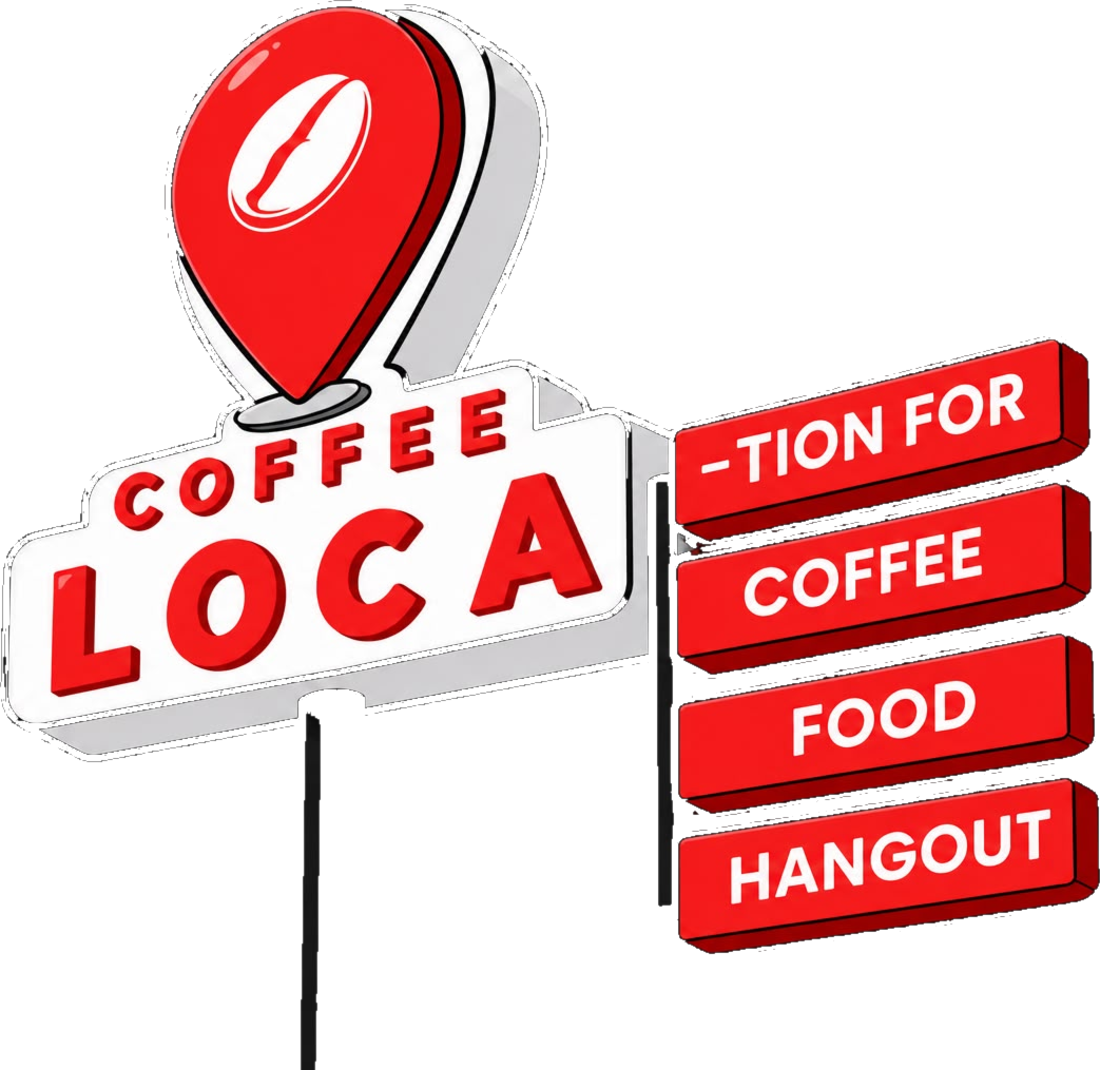
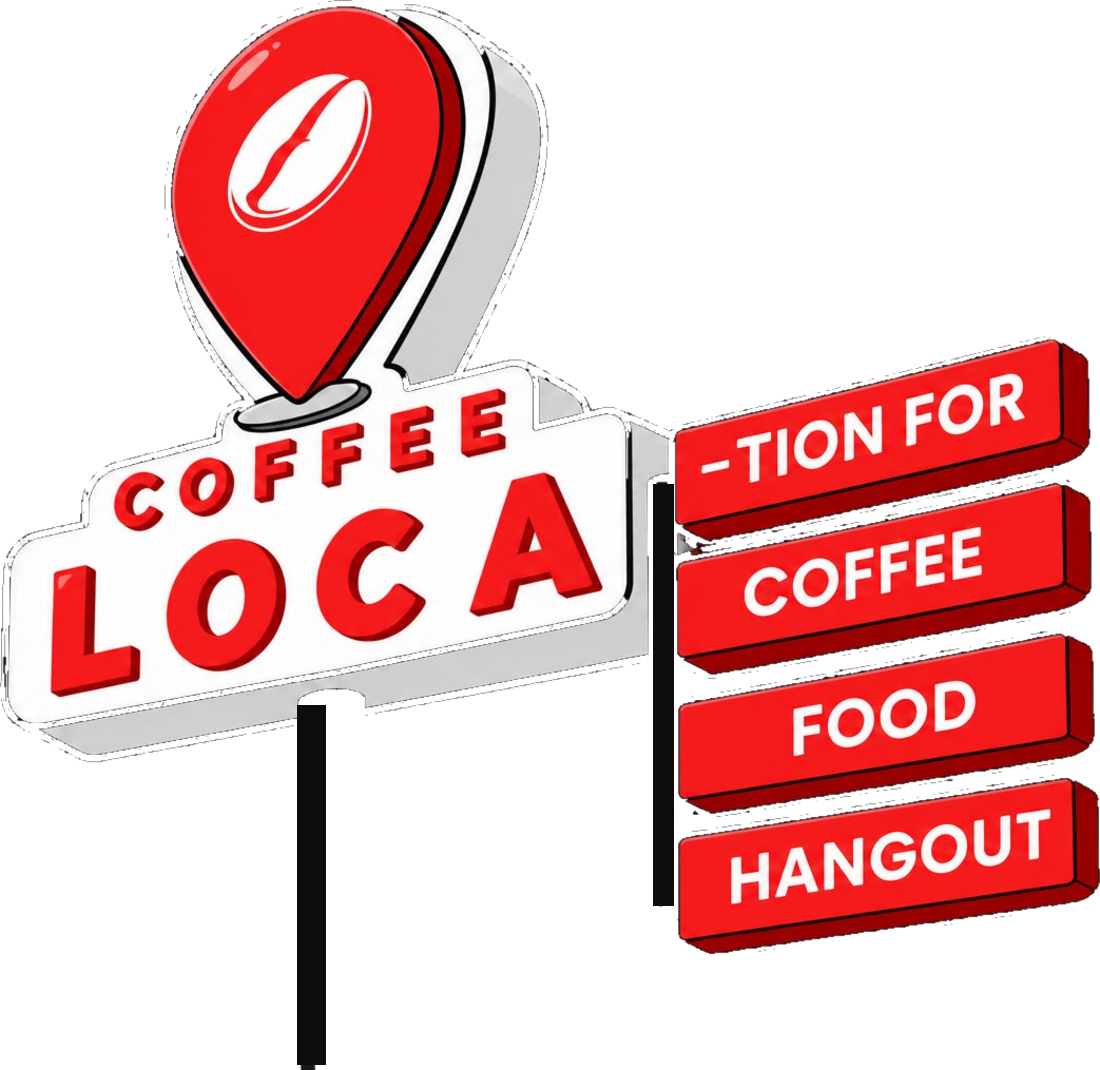
Entry: bigger sign with thicker poles running behind cards

Changed region(s): [[0.2473, 0.6477, 0.3091, 1.0], [0.5873, 0.4318, 0.6182, 0.8636]]

diff --git a/app/styles/entry.css b/app/styles/entry.css
@@ -16,8 +16,8 @@
 .entry-choice-top { display:flex; justify-content:space-between; gap:16px; padding:26px 7vw; color:#fff; font-size:15px; font-weight:700; letter-spacing:.02em; text-transform:uppercase; }
 .entry-choice-content { display:flex; width:min(840px,90vw); flex-direction:column; align-items:center; margin:auto; padding:0 0 32px; }
 .sr-only { position:absolute; width:1px; height:1px; overflow:hidden; clip:rect(0 0 0 0); white-space:nowrap; }
-.loca-sign { width:auto; height:min(40vh,400px); max-width:80vw; object-fit:contain; margin-bottom:30px; filter:drop-shadow(0 22px 28px rgba(60,0,6,.45)); }
-.entry-choice-actions { display:grid; width:100%; grid-template-columns:1fr 1fr; gap:16px; text-align:left; }
+.loca-sign { position:relative; z-index:0; width:auto; height:min(56vh,560px); max-width:90vw; object-fit:contain; margin-bottom:-70px; filter:drop-shadow(0 22px 28px rgba(60,0,6,.45)); }
+.entry-choice-actions { position:relative; z-index:1; display:grid; width:100%; grid-template-columns:1fr 1fr; gap:16px; text-align:left; }
 .entry-choice-actions button { position:relative; display:flex; min-height:164px; flex-direction:column; justify-content:flex-start; gap:10px; padding:22px 26px 24px; overflow:hidden; border:0; border-radius:var(--radius-lg); color:var(--ink); background:#fff; text-align:left; cursor:pointer; box-shadow:0 20px 44px rgba(50,0,6,.32); transition:transform .4s var(--ease-out),background .3s,color .3s; }
 .entry-choice-actions button:hover,.entry-choice-actions button:focus-visible { transform:translateY(-6px); background:var(--ink); color:#fff; }
 .entry-choice-actions button:focus-visible { outline:2px solid #fff; outline-offset:4px; }
@@ -32,7 +32,7 @@
 @media (max-width:760px) {
   .entry-choice-top { padding:18px 6vw; font-size:13px; }
   .entry-choice-content { width:88vw; padding-bottom:24px; }
-  .loca-sign { height:min(30vh,260px); margin-bottom:18px; }
+  .loca-sign { height:min(38vh,340px); margin-bottom:-40px; }
   .entry-choice-actions { grid-template-columns:1fr; gap:10px; }
   .entry-choice-actions button { min-height:0; padding:18px 20px; border-radius:var(--radius); }
   .entry-choice-actions button strong { font-size:25px; }
